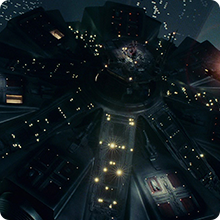
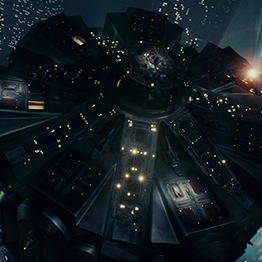
Career image fix. Footer social button fix

diff --git a/content/career.html b/content/career.html
@@ -64,13 +64,14 @@
             </nav>
             <!-- Контент -->
             <article class="to-the-flexbox x_axis article__width to-column">
+              <!-- Заголовок перед картинкой и списком -->
                 <div class="career__content">
                   <h1 class="career__headline">Карьерный путь</h1>
                 </div>
-                <div class="to-the-flexbox career__content">
-                  <div class="career__pic">
-                    <img src="../img/blade.jpg" alt="">
-                  </div>
+                <div class="to-the-flexbox career__content to-grow">
+                  <!-- Картинка -->
+                  <img src="../img/blade.png" alt="" class="career__pic">
+                  <!-- Список -->
                   <div class="">
                     <ul class="joblist">
                       <li>
@@ -119,9 +120,9 @@
             <p class="footer-font">&copy; Конфиденциальность сайта</p>
           </div>
           <div class="to-the-flexbox y_axis">
-            <a href="#" class="social-buttons"><img src="../img/facebook.png" alt="FB" onmouseover="this.src='../img/facebook1.png'" onmouseout="this.src='../img/facebook.png'" class="to-go"></a>
+            <a href="#" class="social-buttons"><img src="../img/FaceBook.png" alt="FB" onmouseover="this.src='../img/FaceBook1.png'" onmouseout="this.src='../img/FaceBook.png'" class="to-go"></a>
             <a href="#" class="social-buttons"><img src="../img/VK.png" alt="VK" onmouseover="this.src='../img/vk1.png'" onmouseout="this.src='../img/vk.png'" class="to-go"></a>
-            <a href="#" class="social-buttons"><img src="../img/Twitter.png" alt="TW" onmouseover="this.src='../img/twitter1.png'" onmouseout="this.src='../img/twitter.png'" class="to-go"></a>
+            <a href="#" class="social-buttons"><img src="../img/Twitter.png" alt="TW" onmouseover="this.src='../img/Twitter1.png'" onmouseout="this.src='../img/Twitter.png'" class="to-go"></a>
           </div>
         </div>
       </footer>

diff --git a/css/career.css b/css/career.css
@@ -66,9 +66,9 @@
   font-family: "Fira Sans Medium";
 }
 .career__pic {
-  width: 30vmin;
-  height: 30vmin;
-  margin-right: 5vmin;
+  width: 36vmin;
+  height: 36vmin;
+  margin: 0 12vmin 0 1.5vmin;
   overflow: hidden;
   border-radius: 2vmin;
   background-color: rgb(90, 90, 90);
@@ -77,7 +77,8 @@
   margin-left: 2vmin;
 }
 .career__headline {
-  margin: 2vmin 0;
+  margin: 0;
+  padding: 3.8vmin 0 4vmin 1.5vmin;
   font-family: "Fira Sans Regular";
-  font-size: 5vmin;
+  font-size: 6vmin;
 }
